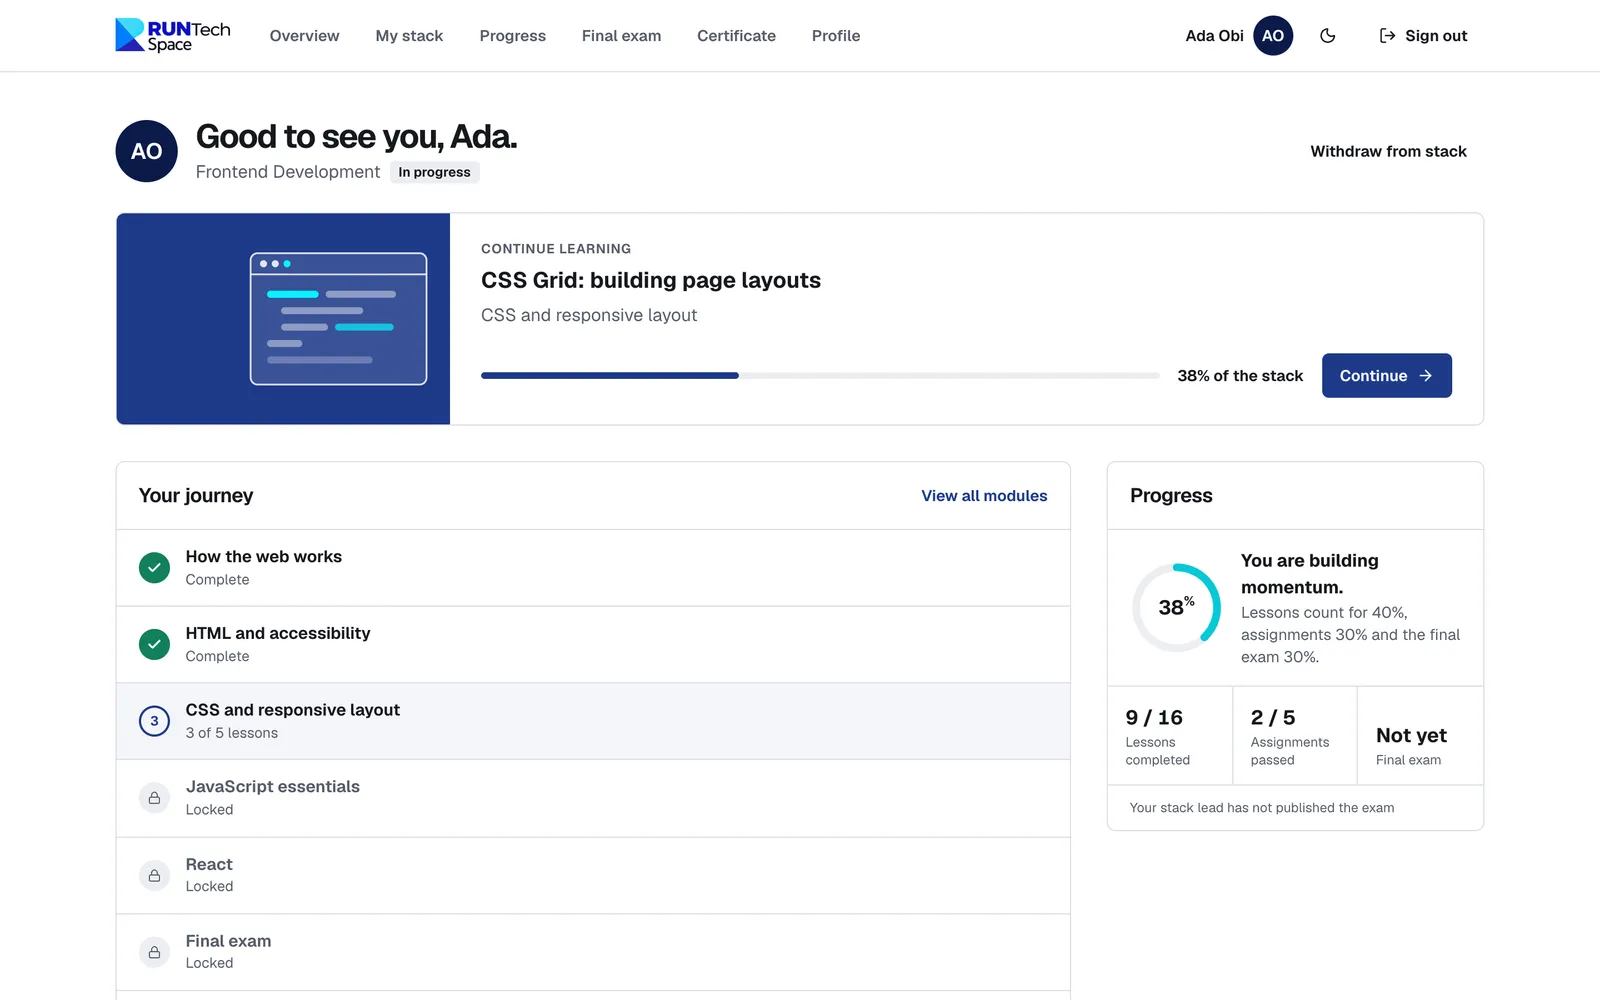
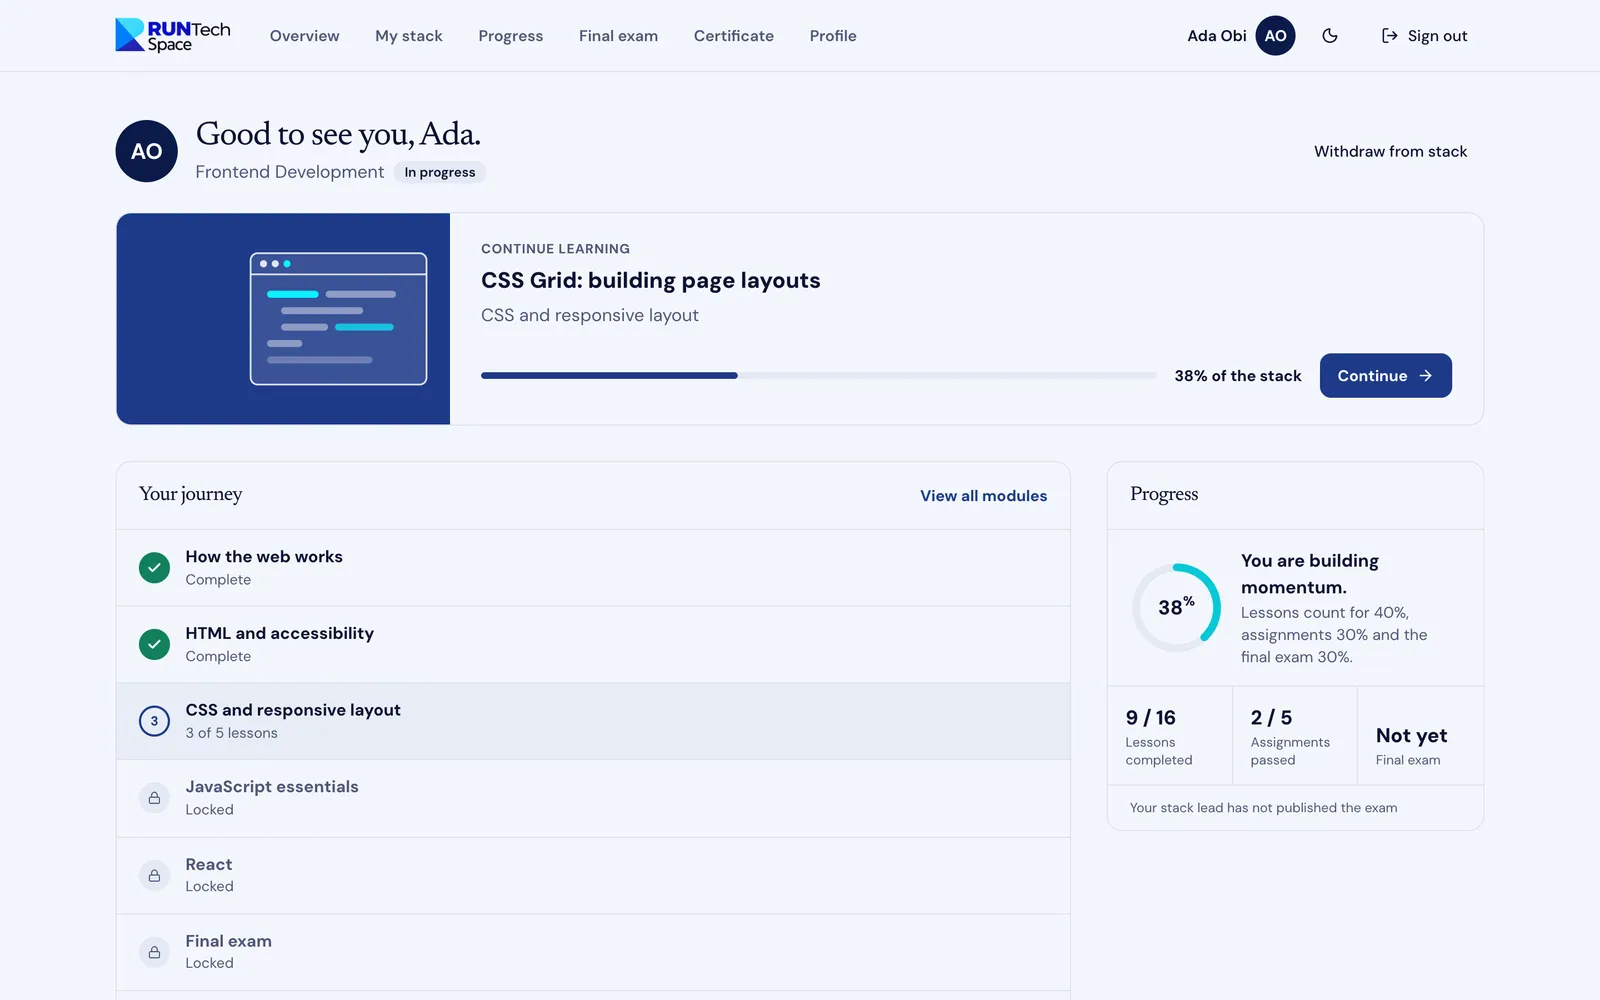
feat(design): feedback videos, new-look screenshots, smoother 3D start
- Product screenshots and laptop screen textures retaken from the new design
- Certificate: student name in the Newsreader serif
- 3D laptop prepares itself shortly after page load (skipped with Save-Data), so its one-time setup never
  stutters mid-scroll
- Walkthrough: title cards in the site's type; public-site tour + intro/outro (tour.mjs); encode.sh builds a
  full and a short feedback film; test data reset via SQL (db reset pulled the live Postgres image)
- E2E selectors updated for the new navbar; 96 checks pass

diff --git a/src/features/home/journey.tsx b/src/features/home/journey.tsx
@@ -29,28 +29,47 @@ export function Journey() {
     let cleanup: (() => void) | undefined
     let cancelled = false
     if (typeof IntersectionObserver === 'undefined') return
-    const start = new IntersectionObserver(
-      ([e]) => {
-        if (!e?.isIntersecting) return
-        start.disconnect()
-        void import('./laptop-3d').then(async ({ mountLaptop }) => {
-          if (cancelled) return
-          const stop = await mountLaptop(sec, {
-            dashboard: dashboardTex,
-            lesson: lessonTex,
-            progress: progressTex,
-            certificate: certificateTex,
-          })
-          if (cancelled) stop()
-          else cleanup = stop
+    let started = false
+    const begin = () => {
+      if (started || cancelled) return
+      started = true
+      start.disconnect()
+      window.clearTimeout(idleTimer)
+      void import('./laptop-3d').then(async ({ mountLaptop }) => {
+        if (cancelled) return
+        const stop = await mountLaptop(sec, {
+          dashboard: dashboardTex,
+          lesson: lessonTex,
+          progress: progressTex,
+          certificate: certificateTex,
         })
-      },
-      { rootMargin: '1200px 0px' },
-    )
+        if (cancelled) stop()
+        else cleanup = stop
+      })
+    }
+    // Start when the section comes near...
+    const start = new IntersectionObserver(([e]) => e?.isIntersecting && begin(), {
+      rootMargin: '1200px 0px',
+    })
     start.observe(sec)
+    // ...or quietly a moment after the page settles, so the one-time 3D setup never lands mid-scroll.
+    // Skipped for visitors who asked their browser to save data.
+    const saveData = (navigator as Navigator & { connection?: { saveData?: boolean } }).connection
+      ?.saveData
+    const idleTimer = window.setTimeout(() => {
+      if (saveData) return
+      const ric = (
+        window as Window & {
+          requestIdleCallback?: (cb: () => void, o?: { timeout: number }) => number
+        }
+      ).requestIdleCallback
+      if (ric) ric(begin, { timeout: 2500 })
+      else begin()
+    }, 1500)
     return () => {
       cancelled = true
       start.disconnect()
+      window.clearTimeout(idleTimer)
       cleanup?.()
     }
   }, [enabled])

diff --git a/src/features/certificates/certificate-view.tsx b/src/features/certificates/certificate-view.tsx
@@ -15,7 +15,7 @@ export function CertificateView({ certificate: c }: { certificate: Certificate }
         </p>
         <h2 className="mt-3 text-2xl font-extrabold sm:text-4xl">Certificate of Completion</h2>
         <p className="mt-6 text-sm text-muted-foreground">This is to certify that</p>
-        <p className="mt-2 border-b-2 border-gold px-4 pb-1 text-3xl font-extrabold sm:text-[2.6rem]">
+        <p className="mt-2 border-b-2 border-gold px-4 pb-1 font-display text-4xl tracking-[-0.02em] italic sm:text-5xl">
           {c.student_name}
         </p>
         <p className="mt-4 text-sm text-muted-foreground">has successfully completed the</p>

diff --git a/src/features/home/home-page.tsx b/src/features/home/home-page.tsx
@@ -690,7 +690,7 @@ function CertificateSection() {
             src={certificateImg}
             alt="A sample RUNTech Space certificate"
             width={1600}
-            height={1131}
+            height={1348}
             loading="lazy"
           />
           <div className="ui verify px-down" aria-hidden="true">

diff --git a/CLAUDE.md b/CLAUDE.md
@@ -42,6 +42,7 @@ End-to-end test + walkthrough videos against a LOCAL Supabase: `docs/WALKTHROUGH
 
 ## Rules and gotchas
 
+- Local stack: the CLI is linked to live, which makes local `supabase start`/`db reset` try to pull the LIVE Postgres version. The live version files were moved to `supabase/.temp-live-versions/` so local uses the cached images; the walkthrough resets its data with SQL instead of `db reset`.
 - **Never** run `supabase config push` or `supabase db reset --linked`: config.toml holds localhost settings and a reset
   would wipe live data. Plain `supabase db reset` / `supabase start` only touch the local Docker stack.
 - New SQL: add a migration, update `supabase/tests/hardening.test.sql` allowlists for any new function callable by
@@ -71,7 +72,7 @@ badges on stock photos, green-tick lists, generic text-left/photo-right heroes.
 - Photos: Unsplash (free licence), hotlinked in the prototype; download and optimise them into the app before launch
   (ask the user first). Real photos of their students and leads are still wanted.
 
-**In progress (branch `feat/paper-design`, committed locally, not pushed):** Paper rolled into the app: tokens, Newsreader + DM Sans, public shell (real logo, condensing nav, Lenis), home page (all sections, three.js MacBook in `src/features/home/laptop-3d.ts`), photo stack cards, Stacks page. Still to do: retake product screenshots from the new look (`src/assets/screens`), polish lesson/quiz/exam screens, run the walkthrough e2e, phone + Lighthouse checks, PR. Previously: rolling Paper into the React app (public site first, then student/lead/admin screens, then retake the
+**In progress (branch `feat/paper-design`, committed locally, not pushed):** Paper rolled into the app: tokens, Newsreader + DM Sans, public shell (real logo, condensing nav, Lenis), home page (all sections, three.js MacBook in `src/features/home/laptop-3d.ts`), photo stack cards, Stacks page. Done since: new-look product screenshots, serif certificate name, 3D laptop pre-warms after page load, e2e 96+/0 failed, feedback videos (`scripts/walkthrough/tour.mjs` + `record.mjs` + `encode.sh`, output in `walkthrough/`). Next: collect exec/lead feedback, iterate, then push + PR. Previously: rolling Paper into the React app (public site first, then student/lead/admin screens, then retake the
 product screenshots). Branch `feat/feel-lab` holds UNCOMMITTED src changes from the rejected Geist version plus a dev
 `/_lab` page and `src/lib/motion.ts`; start the rollout from `master` and reuse only what fits.
 Other open items: real signatory names/signatures (demo placeholders live), privacy notice + terms, Supabase Pro plan and

diff --git a/docs/WALKTHROUGH.md b/docs/WALKTHROUGH.md
@@ -40,7 +40,7 @@ LOCAL_SERVICE_ROLE_KEY=<service_role key from `supabase status`> LOCAL_ANON_KEY=
 ```
 
 `FAST=1` skips the pauses (a quick test run). `PACE=1.6` slows the videos down.
-Each run resets the **local** database (`supabase db reset`), so it always starts clean.
+Each run clears the previous run's test data in the **local** database, so it always starts clean.
 
 Output (not committed): `walkthrough/runtech-space-walkthrough.mp4`, `walkthrough/parts/*.mp4`,
 `walkthrough/sample-certificate.pdf`, and `walkthrough/test-run.log`.
